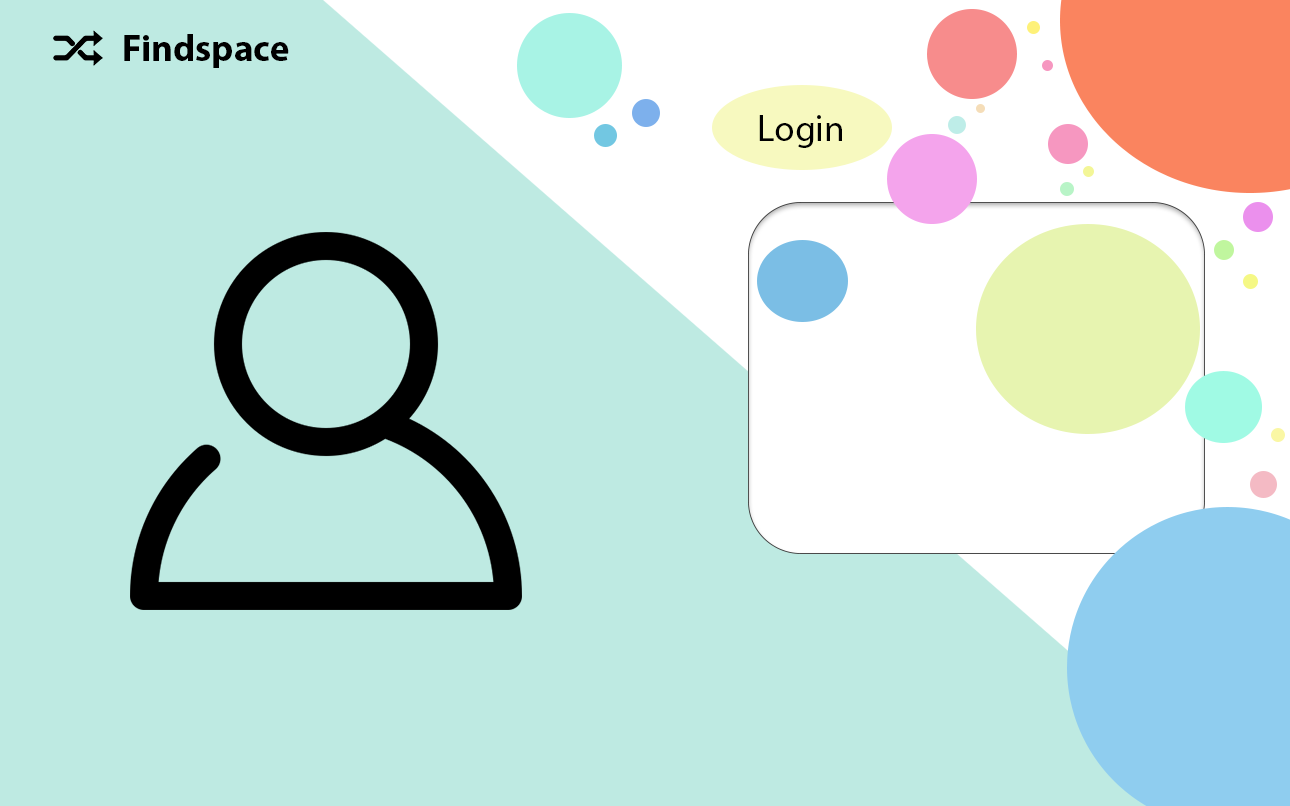
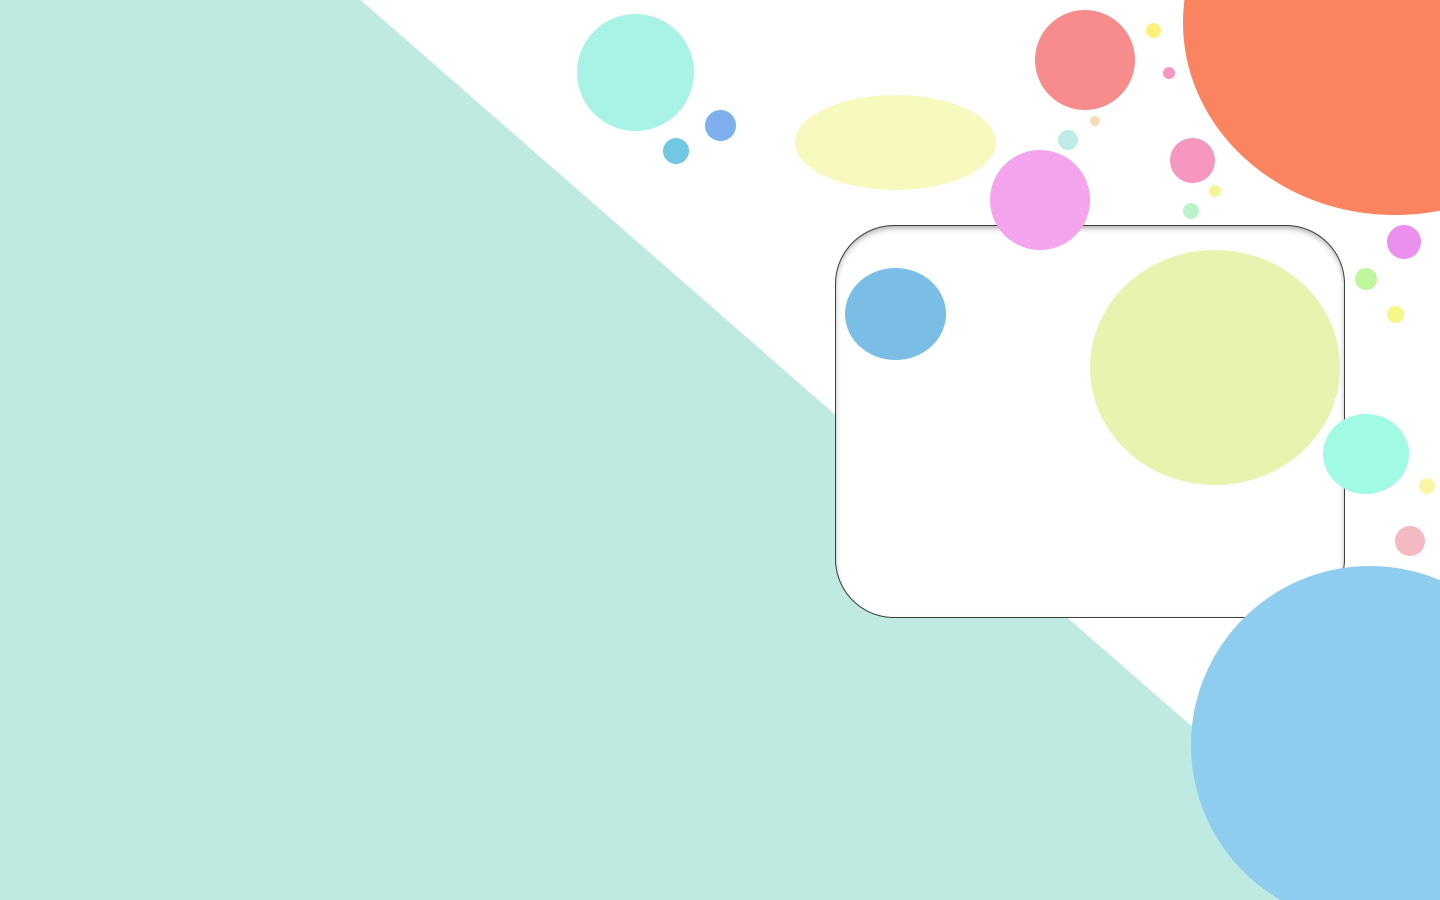
finished login page

Changed region(s): [[0.093, 0.2792, 0.4031, 0.7754], [0.031, 0.031, 0.2171, 0.0931], [0.5891, 0.1551, 0.6512, 0.1861]]

diff --git a/client/src/styles/login.css b/client/src/styles/login.css
@@ -1,19 +1,37 @@
 
 .background{
-  background-image: url("../assets/Login_background.png");
+  background-image: url("../assets/Login_background.jpg");
   background-size: cover;
   height: 100vh;
+  background-repeat: no-repeat;
 }
-
-
-#hellomessage{
-  margin-top: 235px;
+.hellomessage{  
+  margin-top: 0px;
+  padding-top: 150px;
   margin-left: 70%;
   font-size: 50px;
   font-style: normal;
   font-weight: 750;
   font-family: -apple-system, BlinkMacSystemFont, 'Segoe UI', Roboto, Oxygen, Ubuntu, Cantarell, 'Open Sans', 'Helvetica Neue', sans-serif;
-  
+
+}
+.flex{
+  display: flex;
+  flex-direction: row;
+}
+.findspace {
+  margin: 0px;
+  margin-left: 3%;
+  padding-top: 1.5%;
+  font-size: 250%;
+}
+
+.logo {
+  margin-top: 1.3%;
+  margin-left: 3%;
+  height: 4%;
+  width: 4%;
+
 }
 .logininput{
   border: 3px solid rgba (0,0,0,0.5);

diff --git a/client/src/pages/Login.js b/client/src/pages/Login.js
@@ -1,5 +1,6 @@
 import React from 'react';
 import '../styles/login.css';
+import logo from '../assets/FindspaceLogo.png'
 
 
 
@@ -7,8 +8,12 @@ const Login = () => {
 
   return( 
     <div className = "background">
-      <h1 id = "hellomessage">Hello!</h1>
       <div>
+        <div className = "flex">
+          <img className = "logo" src = {logo} ></img>
+          <h1 className = "findspace">Findspace</h1>
+        </div>
+        <h1 className = "hellomessage">Hello!</h1>
         <form className = "loginform">
           <input className = "logininput" type ="text" id="Email" name ="Email"/><br/>
           <input className = "logininput" type="password" id="pass" name="pass"/> <br />
